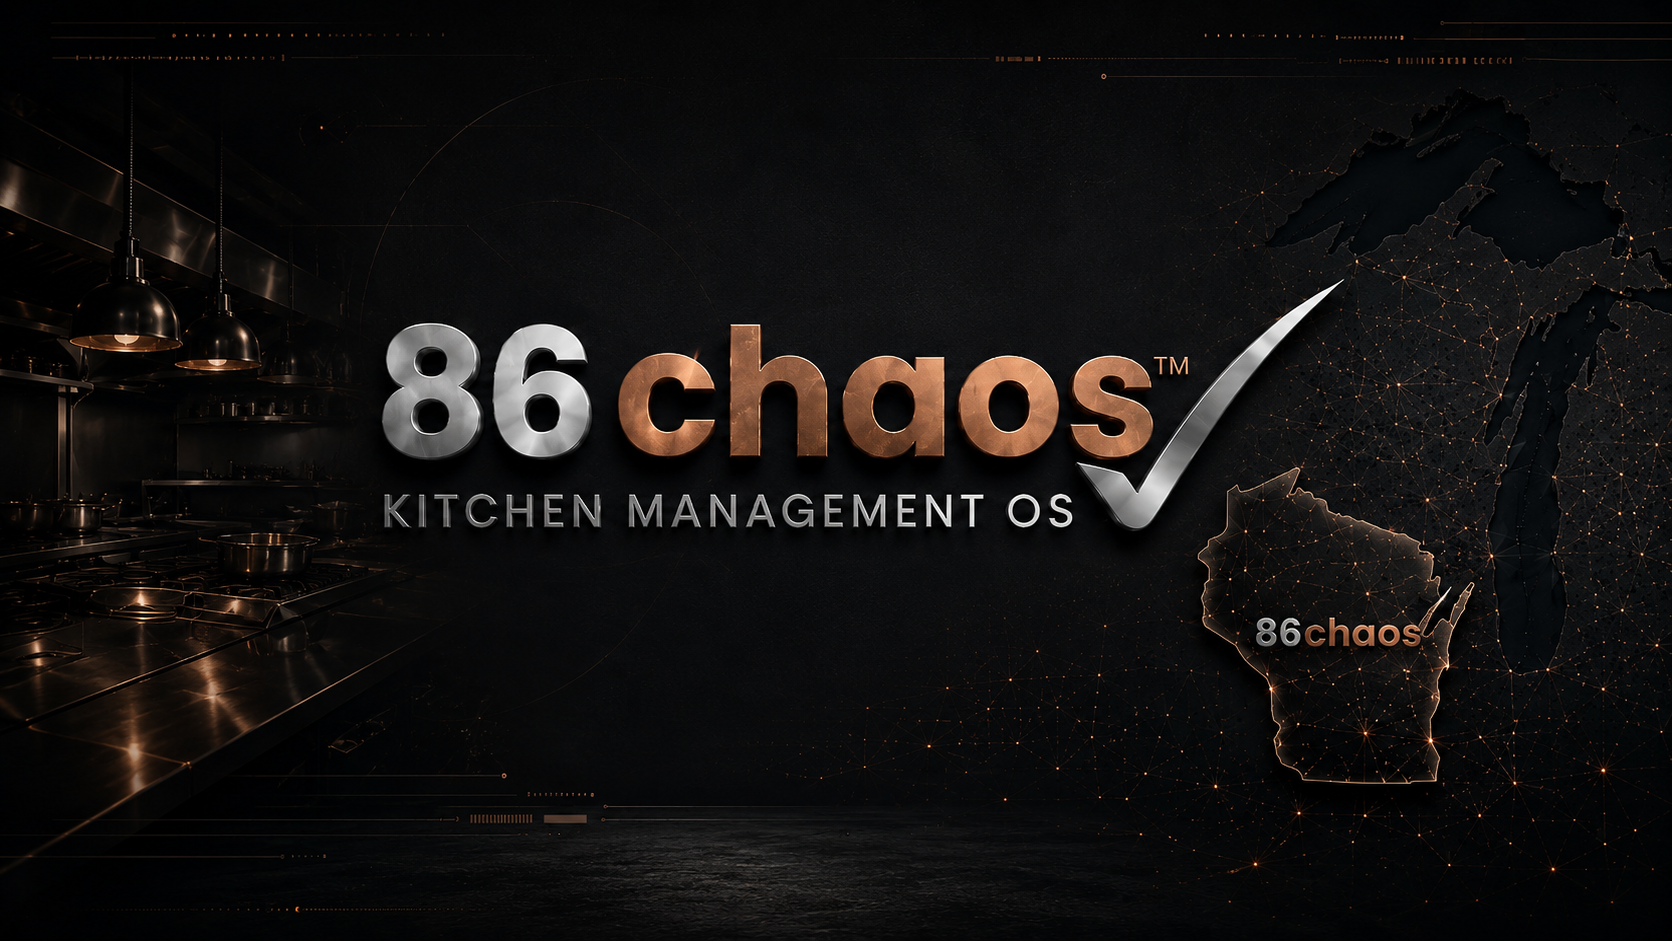
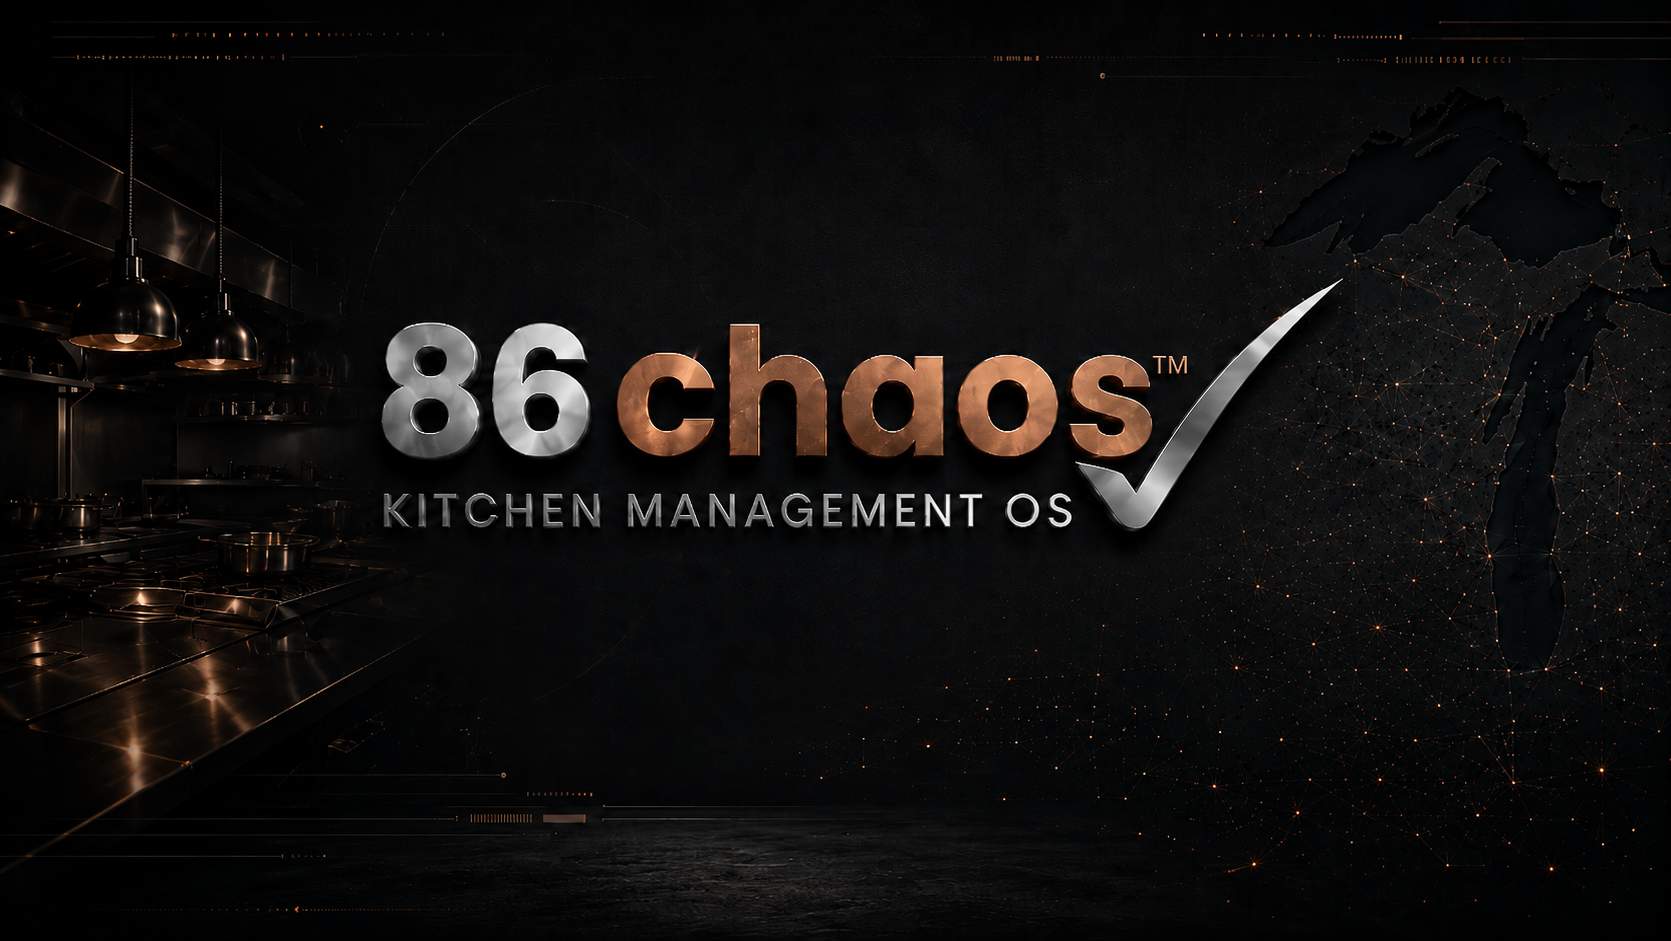
Add files via upload

diff --git a/README.md b/README.md
@@ -119,3 +119,8 @@ Do not commit real keys. `BETA_FROM_EMAIL` must use a domain verified with the e
 - Screens included: Manager Brief, Prep & Tasks, Schedule Builder, AI Ordering, Menu Impact, Inventory & Invoice Watch, and 86Voice.
 - Demo panels use clean sample data so the tour feels active without exposing private restaurant records.
 
+
+## V57 background update
+
+- Replaced the site-wide background image with the updated branded kitchen/tech background that removes the Wisconsin logo.
+- Kept the background visible across all public pages while preserving readability with the existing transparent panel treatment.